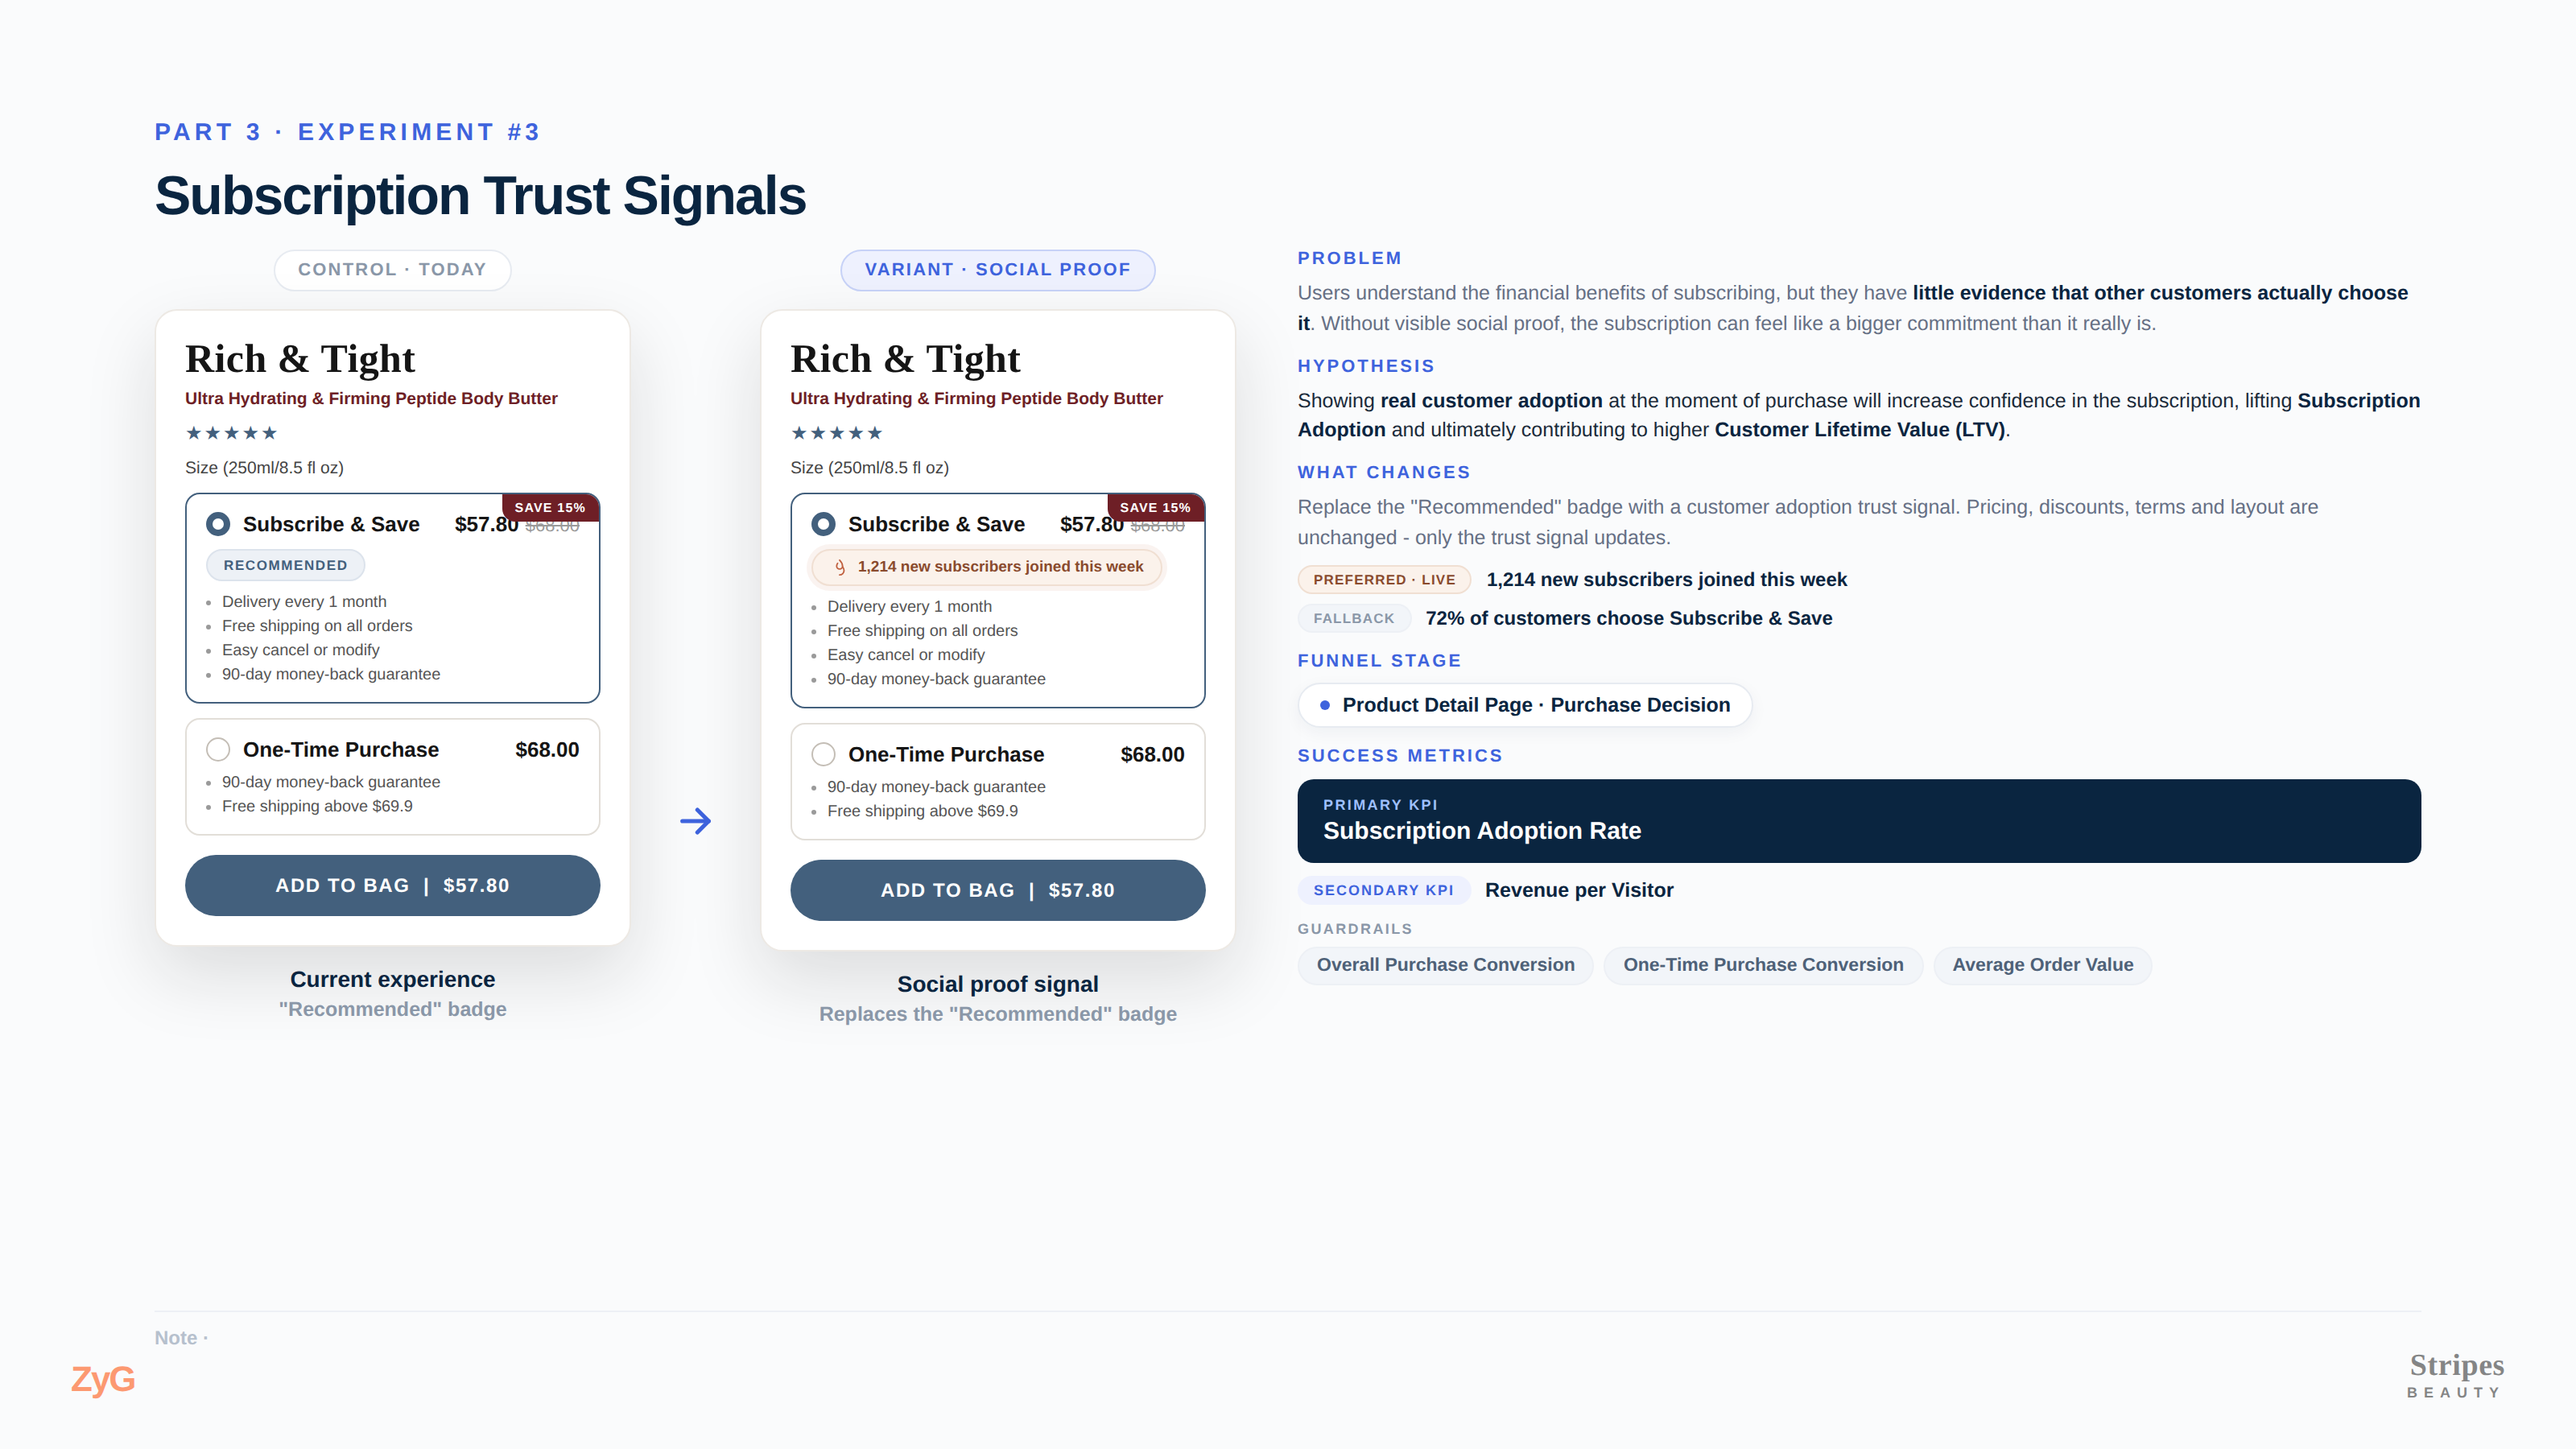
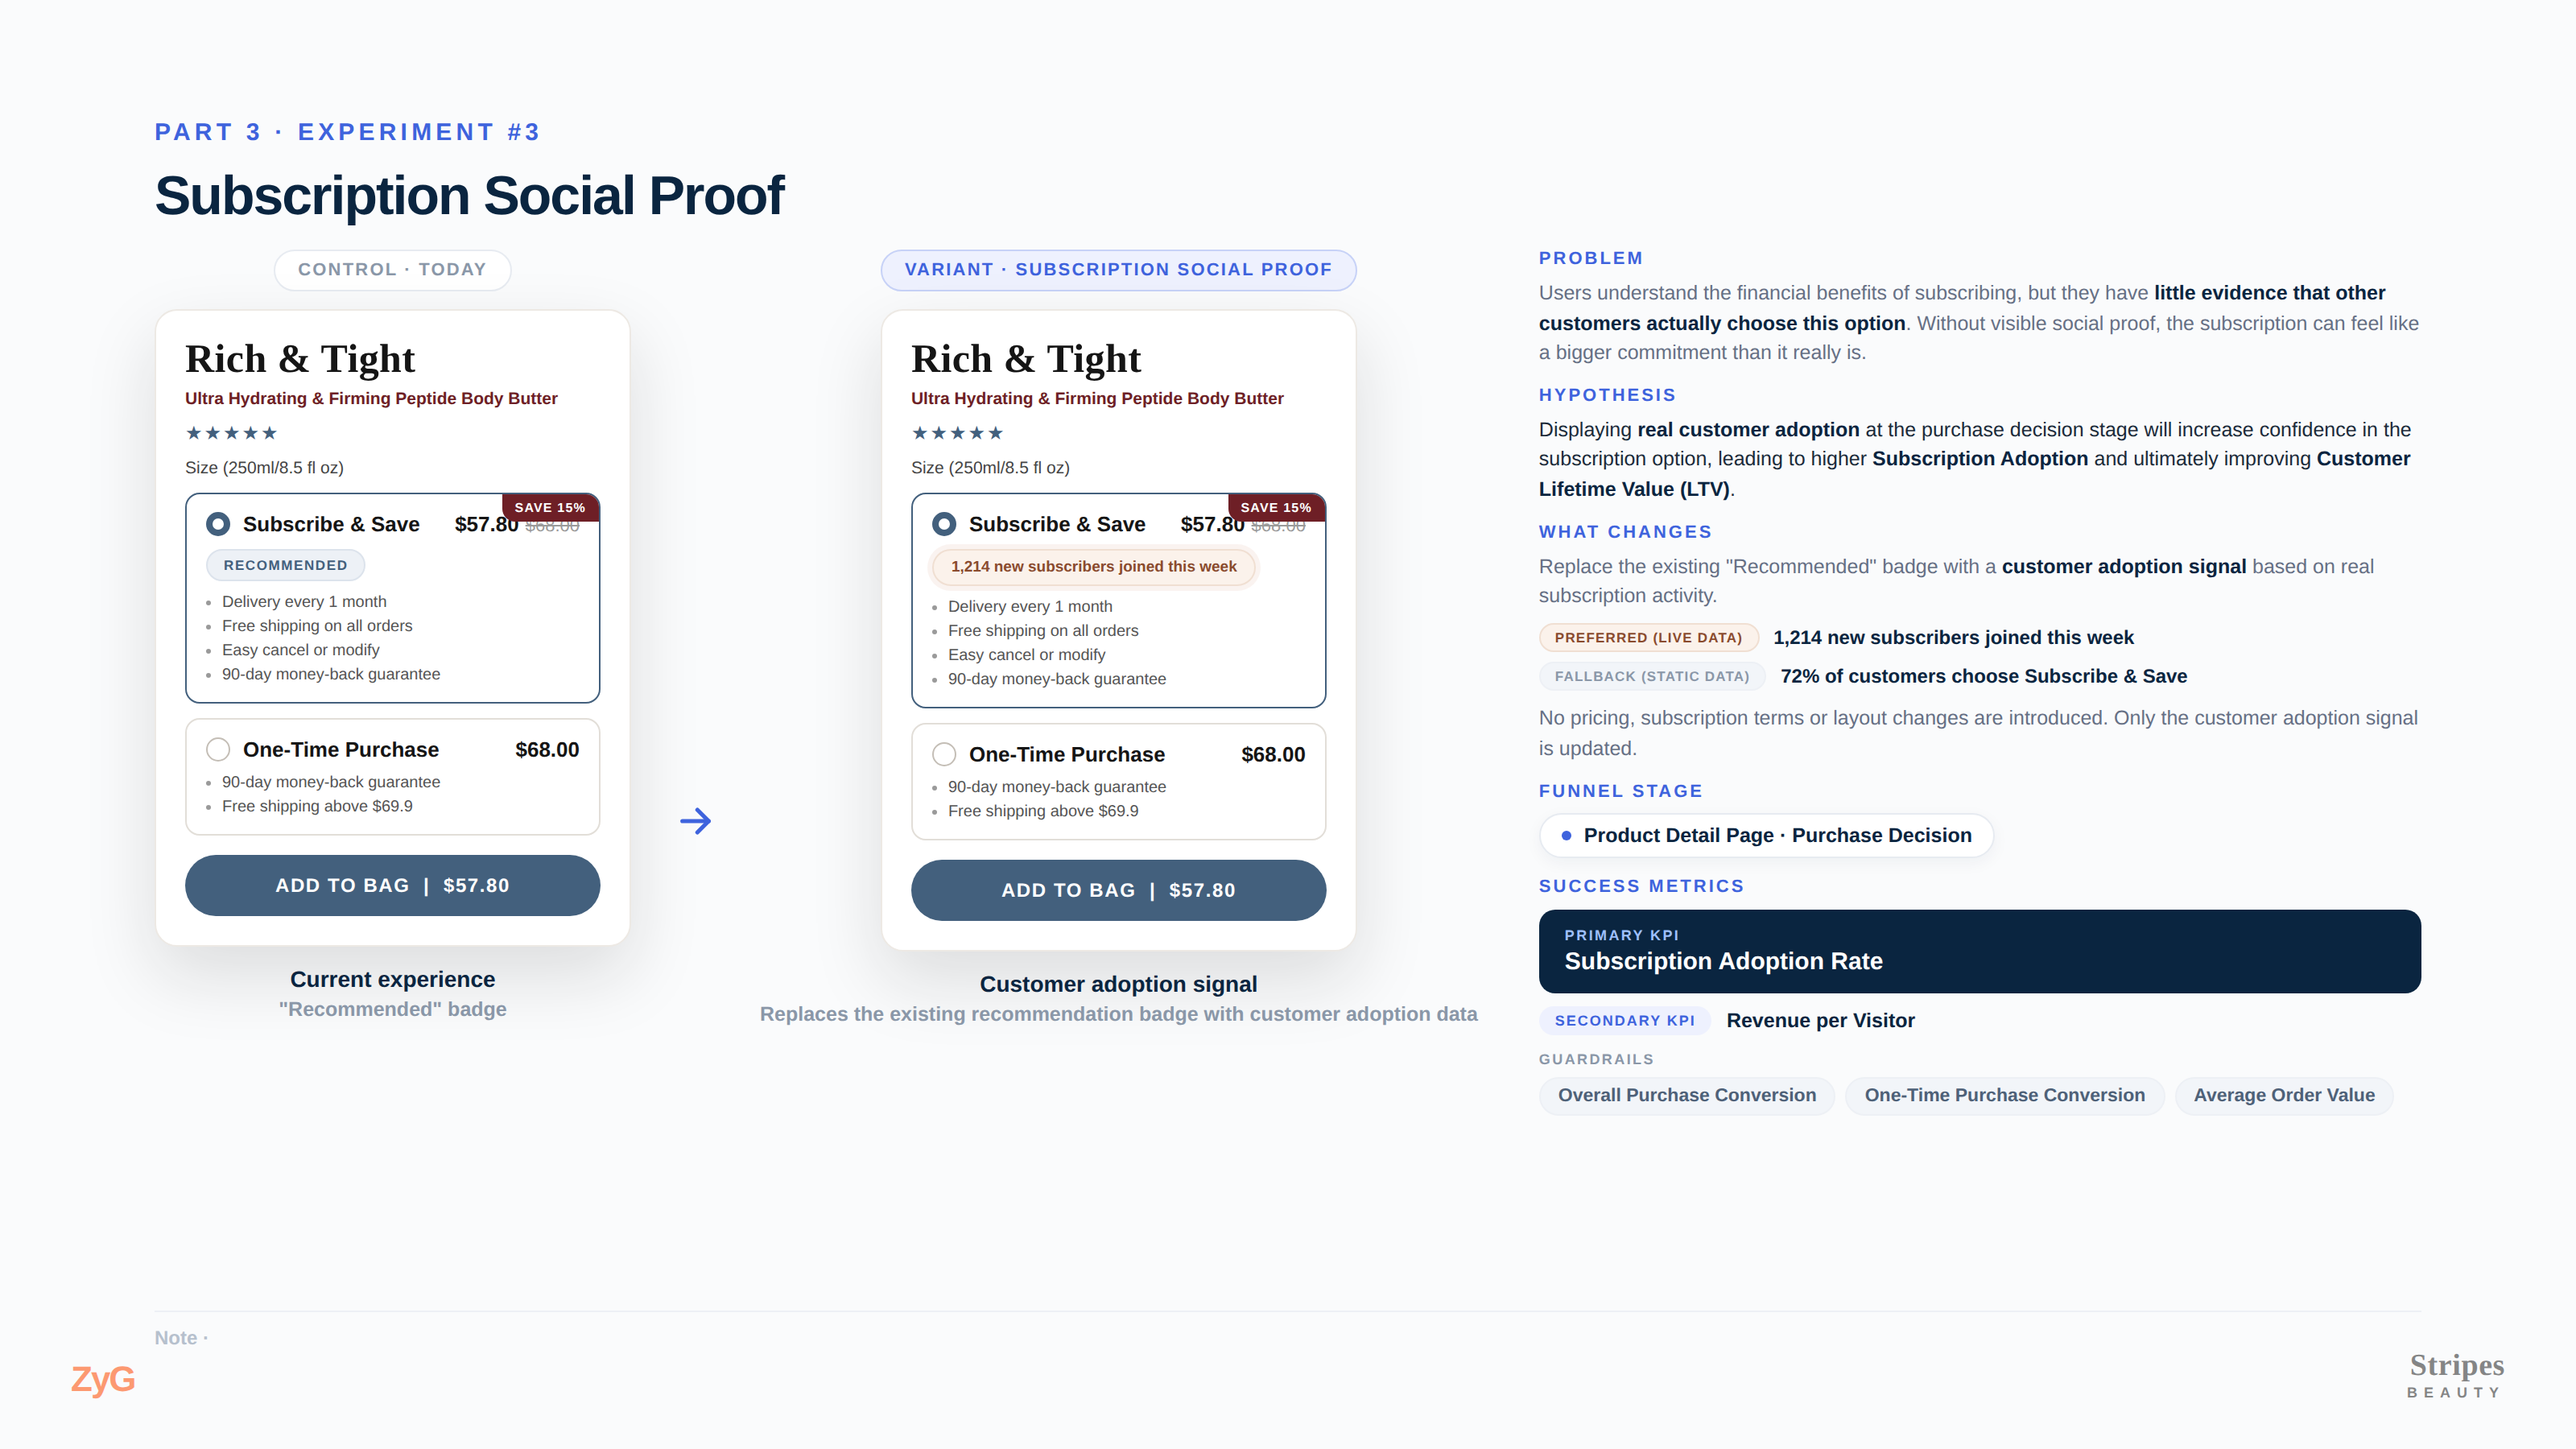
Exp 3 refinements: retitle Subscription Social Proof + copy/label updates
Title/variant label/captions to social-proof + customer-adoption wording; new
problem, hypothesis, what-changes with Preferred(Live)/Fallback(Static) labels;
remove flame icon from the badge for a cleaner, more premium chip.

Claude-Session: https://claude.ai/code/session_01GoAG3ySswQXo2H1hh5EwTk

Changed region(s): [[0.2812, 0.1556, 0.9375, 0.7778], [0.7188, 0.7467, 0.9062, 0.7778], [0.1875, 0.1244, 0.3125, 0.1556]]

diff --git a/diagrams/slides/p3-04-exp3.html b/diagrams/slides/p3-04-exp3.html
@@ -75,7 +75,7 @@
 </style></head><body>
 <div class="slide">
   <div class="kicker">Part 3 &middot; Experiment #3</div>
-  <div class="h1" style="font-size:34px;">Subscription Trust Signals</div>
+  <div class="h1" style="font-size:34px;">Subscription Social Proof</div>
 
   <div class="stage">
     <!-- left: comparison -->
@@ -118,7 +118,7 @@
 
       <!-- VARIANT -->
       <div class="mcol">
-        <div class="steptag new">Variant &middot; social proof</div>
+        <div class="steptag new">Variant &middot; subscription social proof</div>
         <div class="pdp">
           <div class="ptitle">Rich &amp; Tight</div>
           <div class="psub">Ultra Hydrating &amp; Firming Peptide Body Butter</div>
@@ -128,7 +128,7 @@
           <div class="opt sel">
             <div class="save">SAVE 15%</div>
             <div class="orow"><span class="radio on"></span><span class="oname">Subscribe &amp; Save</span><span class="oprice">$57.80<span class="old">$68.00</span></span></div>
-            <div class="trust"><svg viewBox="0 0 24 24" fill="none" stroke="currentColor" stroke-width="2" stroke-linecap="round" stroke-linejoin="round"><path d="M12 2s4 4 4 8a4 4 0 0 1-8 0c0-1.5.7-2.8 1.3-3.7"/><path d="M12 22a6 6 0 0 0 6-6c0-2-1-3.5-2-5"/></svg>1,214 new subscribers joined this week</div>
+            <div class="trust">1,214 new subscribers joined this week</div>
             <div class="obul">
               <div class="ob"><span class="d"></span>Delivery every 1 month</div>
               <div class="ob"><span class="d"></span>Free shipping on all orders</div>
@@ -147,7 +147,7 @@
 
           <div class="addbtn">ADD TO BAG&nbsp;&nbsp;|&nbsp;&nbsp;$57.80</div>
         </div>
-        <div class="cap"><b>Social proof signal</b>Replaces the "Recommended" badge</div>
+        <div class="cap"><b>Customer adoption signal</b>Replaces the existing recommendation badge with customer adoption data</div>
       </div>
     </div>
 
@@ -155,19 +155,20 @@
     <div class="rail">
       <div class="blk">
         <div class="bl">Problem</div>
-        <p class="mut">Users understand the financial benefits of subscribing, but they have <b>little evidence that other customers actually choose it</b>. Without visible social proof, the subscription can feel like a bigger commitment than it really is.</p>
+        <p class="mut">Users understand the financial benefits of subscribing, but they have <b>little evidence that other customers actually choose this option</b>. Without visible social proof, the subscription can feel like a bigger commitment than it really is.</p>
       </div>
       <div class="blk">
         <div class="bl">Hypothesis</div>
-        <p>Showing <b>real customer adoption</b> at the moment of purchase will increase confidence in the subscription, lifting <b>Subscription Adoption</b> and ultimately contributing to higher <b>Customer Lifetime Value (LTV)</b>.</p>
+        <p>Displaying <b>real customer adoption</b> at the purchase decision stage will increase confidence in the subscription option, leading to higher <b>Subscription Adoption</b> and ultimately improving <b>Customer Lifetime Value (LTV)</b>.</p>
       </div>
       <div class="blk">
         <div class="bl">What changes</div>
-        <p class="mut">Replace the "Recommended" badge with a customer adoption trust signal. Pricing, discounts, terms and layout are unchanged - only the trust signal updates.</p>
+        <p class="mut">Replace the existing "Recommended" badge with a <b>customer adoption signal</b> based on real subscription activity.</p>
         <div class="swap">
-          <div class="sw"><span class="lb pref">Preferred &middot; live</span><span class="v">1,214 new subscribers joined this week</span></div>
-          <div class="sw"><span class="lb fall">Fallback</span><span class="v">72% of customers choose Subscribe &amp; Save</span></div>
+          <div class="sw"><span class="lb pref">Preferred (Live Data)</span><span class="v">1,214 new subscribers joined this week</span></div>
+          <div class="sw"><span class="lb fall">Fallback (Static Data)</span><span class="v">72% of customers choose Subscribe &amp; Save</span></div>
         </div>
+        <p class="mut" style="margin-top:8px;">No pricing, subscription terms or layout changes are introduced. Only the customer adoption signal is updated.</p>
       </div>
       <div class="blk">
         <div class="bl">Funnel stage</div>
